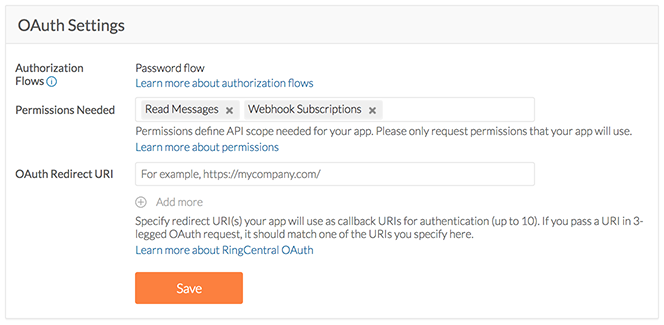
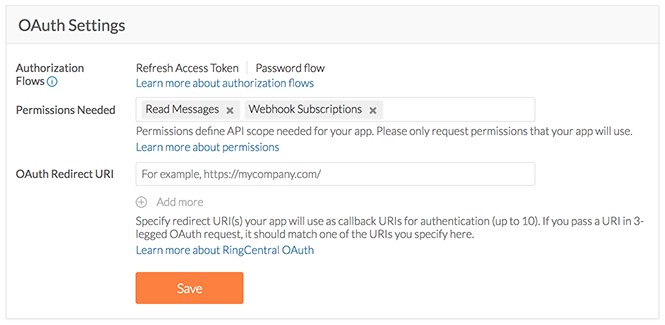
update docs

diff --git a/README.md b/README.md
@@ -35,7 +35,7 @@ The app must have the following settings:
 
 * Application Type: `Private`
 * Platform Type: `Server-only (No UI)`
-* OAuth Grant Types: `Password flow`
+* OAuth Grant Types: `Refresh Access Token`, `Password flow`
 * Permissions: `Read Messages`, `Webhook Subscriptions`
 
 In the Developer Portal, your app will look like this.
